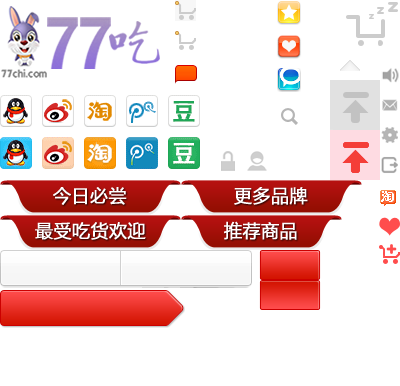
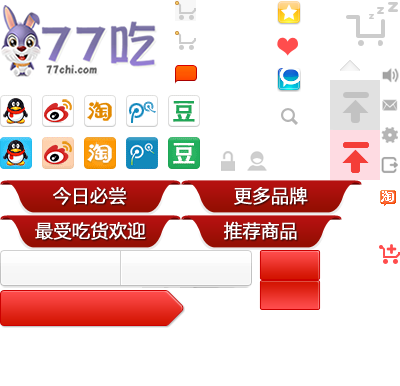
update

diff --git a/静态页/web_06-20/css/style.css b/静态页/web_06-20/css/style.css
@@ -4,7 +4,10 @@ body,div,dl,dt,dd,ul,ol,li,h1,h2,h3,h4,h5,h6,pre,code,form,fieldset,legend,input
 input,button,select,textarea{outline:none}li{list-style:none}img{border:none}textarea{resize:none}
 em,i { font-style:normal;}
 body{color:#151515; background:#fff;}
-body,input,textarea{font-size:12px;font-family:arial,\5b8b\4f53,Verdana}
+body,input,textarea{
+	font-size:12px;
+	font-family:Tahoma, Arial, sans-serif
+}
 a{color:#E4393C;text-decoration:none;outline:none;}
 a:hover{color:#990000;  text-decoration:none;}
 .cuti { font-weight:bold;}
@@ -74,7 +77,7 @@ a.gray:hover{color:#e24b01; text-decoration: underline;}
 /* 顶部 */
 .topNav { height:85px; background:url(../images/xhpic.png) repeat-x top; width:100%;}
 .topNav .tnavBox {width:960px;height:85px;margin:0 auto; position:relative;}
-.topNav h1 { margin:0 auto; width:163px; height:85px; background:url(../images/pic.png) no-repeat;}
+.topNav h1 { margin:0 auto; width:170px; height:85px; background:url(../images/pic.png) no-repeat;}
 .topNav h1 a { text-indent:-999em; display:block; width:100%; height:100%;}
 
 /* 顶部操作区 */
@@ -141,17 +144,33 @@ dl.loginIn dd { width: 110px; border-radius:0 0 5px 5px;}
 .sites a.douban:hover {background-position: -168px -137px;}
 
 /* 一级菜单 */
-.topMenu { width:100%; height:38px; /* background:url(../images/xhpic.png) repeat-x left -85px; */ background:#b61111; top:0; z-index:1;}
+.topMenu { width:100%; height:39px;background:url(../images/xhpic.png) repeat-x 0 -239px;top:0; z-index:99;}
 .menuBox { width:960px; margin:0 auto;height:38px; position:relative;z-index:1;}
 .menuBox .navbar { overflow:hidden; _zoom:1;}
-.menuBox .navbar a { float:left; font-size:14px; font-weight:bold; padding:0 20px; line-height:38px; color:#fff;border-right: 1px #d7412c solid;}
-.menuBox .navbar a.current{background-color: #920e01;border-right: 1px #800b00 solid;box-shadow: 0 0 10px #800b00 inset;-webkit-box-shadow: 0 0 10px #800b00 inset;-moz-box-shadow: 0 0 10px #800b00 inset;}
-.navbar a:hover {background-color: #8d1e01;color: #fff;}
+.menuBox .navbar a { float:left; font-size:14px; font-weight:bold; padding:0 20px; line-height:38px; color:#fff}
+.menuBox .navbar a.current{
+	background-color: #C969B4;
+	background-position: 100% -281px;	/*border-right: 1px #800b00 solid;
+	box-shadow: 0 0 10px #800b00 inset;
+	-webkit-box-shadow: 0 0 10px #800b00 inset;
+	-moz-box-shadow: 0 0 10px #800b00 inset;*/
+}
+.navbar a:hover {
+	background-color: #F84500;
+	color: #fff;
+}
 
 .searchBox { border:1px #d4d4d4 solid; width:180px; height:25px;  background:#fff;position: absolute; top:5px; right:0;-moz-border-radius:3px;-webkit-border-radius:3px;border-radius:3px;}
 .searchBox .sText {position: relative;overflow: hidden; width:145px; height:25px;float: left; padding-left:5px;}
 .searchBox .sText i {position: absolute;top: 4px;left: 36px;color: #B4B4B4;font-size: 14px;display: none;}
-.searchBox .sText input {height: 25px;width: 145px;border: none;line-height: 25px;background: #fff;font-size: 12px; cursor:pointer;}
+.searchBox .sText input {
+	height: 25px;
+	width: 145px;
+	border: none;
+	line-height: 25px;
+	background: #fff;
+	font-size: 12px;
+}
 .searchBox .sBtn { float:right; width:25px; height:25px; background:url(../images/pic.png) no-repeat -278px -104px; border:0; cursor:pointer; }
 
 

diff --git a/静态页/web_06-20/index.html b/静态页/web_06-20/index.html
@@ -19,7 +19,7 @@
 
 <body>
 <!-- 头部结构 -->
-<div class="topBar">想获得更好的浏览体验，77吃建议你更新浏览器。推荐使用：Chrome　360极速　IE8　Firefox</div>
+<!--<div class="topBar">想获得更好的浏览体验，77吃建议你更新浏览器。推荐使用：Chrome　360极速　IE8　Firefox</div>-->
 
 <div class="topNav">
 
@@ -72,7 +72,7 @@
 <a href="#">保健食品</a>
 </ul>
 
-<div class="searchBox"><div class="sText"></label><i>输入关键字</i><input type="text" id="nav-username" name="login_name" placeholder="输入关键字" autocomplete="off"></div>
+<div class="searchBox"><div class="sText"></label><i>商品名称 / 分类</i><input type="text" id="nav-username" name="login_name" placeholder="商品名称 / 分类 / 标签"></div>
 <input name="" type="button" class="sBtn"/>
 </div>
 </div>
@@ -82,7 +82,7 @@
 <!-- 滑动图片及热搜 -->
 <div class="scrollBox">
 <div class="scrollPic">
-<div id="xxx"  >
+<div id="xxx">
      <script>
      var box =new PPTBox();
      box.width = 642; //宽度
@@ -101,12 +101,12 @@
 </div>
 <div class="hotSearch">
 <div class="hd">
-<h3>热门关键字</h3>
+<h3>强力推荐</h3>
 <span class="more"><a href="#" class="gray">更多>></a></span>
 </div>
 <div class="bd">
 <dl class="kword">
-	<dt>产地</dt>
+	<dt><a href="#">产地</a></dt>
     <dd><a href="#">中国大陆</a></dd>
     <dd class="red"><a href="#">港澳台</a></dd>
     <dd><a href="#">东南亚</a></dd>
@@ -160,11 +160,15 @@
 
 
 <!-- 今日必尝 -->
-<div class="todayBox">
+<div class="hd_title">
 <div class="hd">
-<h3>今日必尝</h3>
+<h2>今日必尝</h2>
 <span class="more"><a href="#" class="gray">更多>></a></span>
 </div>
+</div>
+
+<div class="todayBox">
+
 <div class="bd clearfix">
 
 
@@ -392,15 +396,17 @@
 
 
 <!-- 最受吃货欢迎 -->
-
-<div class="topBox">
+<div class="hd_title">
 <div class="hd">
-<h3>最受吃货欢迎</h3>
+<h2>最受吃货欢迎</h2>
 <span class="type"><a href="#">巧克力</a><a href="#">糖果</a><a href="#">坚果</a><a href="#">水果</a><a href="#">进口食品</a><a href="#">巧克力</a><a href="#">糖果</a><a href="#">坚果</a><a href="#">水果</a><a href="#">进口食品</a></span>
 <span class="more"><a href="#" class="gray">更多>></a></span>
 </div>
-<div class="bd clearfix">
+</div>
 
+<div class="topBox">
+
+<div class="bd clearfix">
 
 <div class="foodBox">
 <div class="fBox">
@@ -871,7 +877,7 @@
 <div class="footBox">
 <div class="botMenu"><a href="list.html">关于我们</a> | <a href="list.html">加入我们</a> | <a href="list.html">免责声明</a> | <a href="list.html">帮助中心</a> | <a href="list.html">加入我们</a> | <a href="list.html">免责声明</a> | <a href="list.html">帮助中心</a></li>
 </ul>
-<ul class="link">
+<!--<ul class="link">
 	<li>友情链接：</li>
 	<li><a href="list.html">泡椒网</a></li>
 	<li><a href="list.html">泡椒网</a></li>
@@ -897,7 +903,7 @@
     <li><a href="list.html">泡椒网</a></li>
     <li><a href="list.html">泡椒网</a></li>
     <li><a href="list.html">泡椒网</a></li>
-</ul>
+</ul>-->
 <div class="copyright">©Copyright by 77吃 2010-2013 77chi.com, all rights reserved <span class="fr">备案号：浙ICP备05034519号</span></div>
 </div>
 </div>

diff --git a/静态页/web_06-20/css/index.css b/静态页/web_06-20/css/index.css
@@ -9,9 +9,12 @@
 .hotSearch .hd span.more { float:right;margin-left:10px; font-family:宋体; margin-right:10px; color:#888;}
 .hotSearch .bd { overflow:hidden;_zoom:1; padding:5px 10px; }
 dl.kword {overflow:hidden;_zoom:1; margin-bottom:14px;}
-dl.kword dt { background:#b61111; border-radius:5px; color:#FFF; float:left; width:44px; text-align:center; line-height:20px;}
-dl.kword dd a { float:left; color:#868686; line-height:20px; margin-left:10px;}
-dl.kword dd.red a,dl.kword dd a:hover { color:#990000;}
+dl.kword dt { background:#FEA04B; border-radius:5px; color:#FFF; float:left; width:44px; text-align:center; line-height:20px;}
+dl.kword dt a {color:#fff;}
+dl.kword dd a { float:left; color:#777; line-height:20px; margin-left:10px;}
+dl.kword dd.red a,dl.kword dd a:hover {
+	color:#FE7901;
+}
 
 
 /* 图片展示 */
@@ -29,6 +32,38 @@ dl.kword dd.red a,dl.kword dd a:hover { color:#990000;}
 .brandBox .hd h3 { background-position:-181px -180px;}
 .todayBox .hd span.more,.topBox .hd span.more,.brandBox .hd span.more {float:right;margin-left:10px;margin-top:15px; font-family:宋体; margin-right:10px; color:#888;}
 .topBox .hd span.type {float:left;margin-left:10px;margin-top:15px; font-size:14px;}
+
+.hd_title{
+	position:relative;
+	width:958px;
+	height:39px;
+	margin-right: auto;
+	margin-bottom: 0;
+	margin-left: auto;
+	border-bottom-width: 4px;
+	border-bottom-style: solid;
+	border-bottom-color: #FF6600;
+}
+.hd_title .hd {
+	position:relative;
+	height:35px;
+	overflow:hidden;
+}
+.hd_title .hd h2{
+	height:30px;
+	float:left;
+	padding:10px 0 5px 0px;
+	font-family: Tahoma, Arial, sans-serif;
+}
+.hd_title .hd span.type {float:left; margin:14px 0 0 20px;	font-size: 14px;}
+.hd_title .hd span.more{
+	float:right;
+	margin:16px 0 0 0;
+	font-family:"宋体";
+	color:#888;
+}
+
+
 span.type a{ margin-right:10px;}
 span.type a:hover { text-decoration:underline;}
 

diff --git a/静态页/web_06-20/index2.html b/静态页/web_06-20/index2.html
@@ -19,7 +19,7 @@
 
 <body>
 <!-- 头部结构 -->
-<div class="topBar">想获得更好的浏览体验，77吃建议你更新浏览器。推荐使用：Chrome　360极速　IE8　Firefox</div>
+<!--<div class="topBar">想获得更好的浏览体验，77吃建议你更新浏览器。推荐使用：Chrome　360极速　IE8　Firefox</div>-->
 
 <div class="topNav">
 
